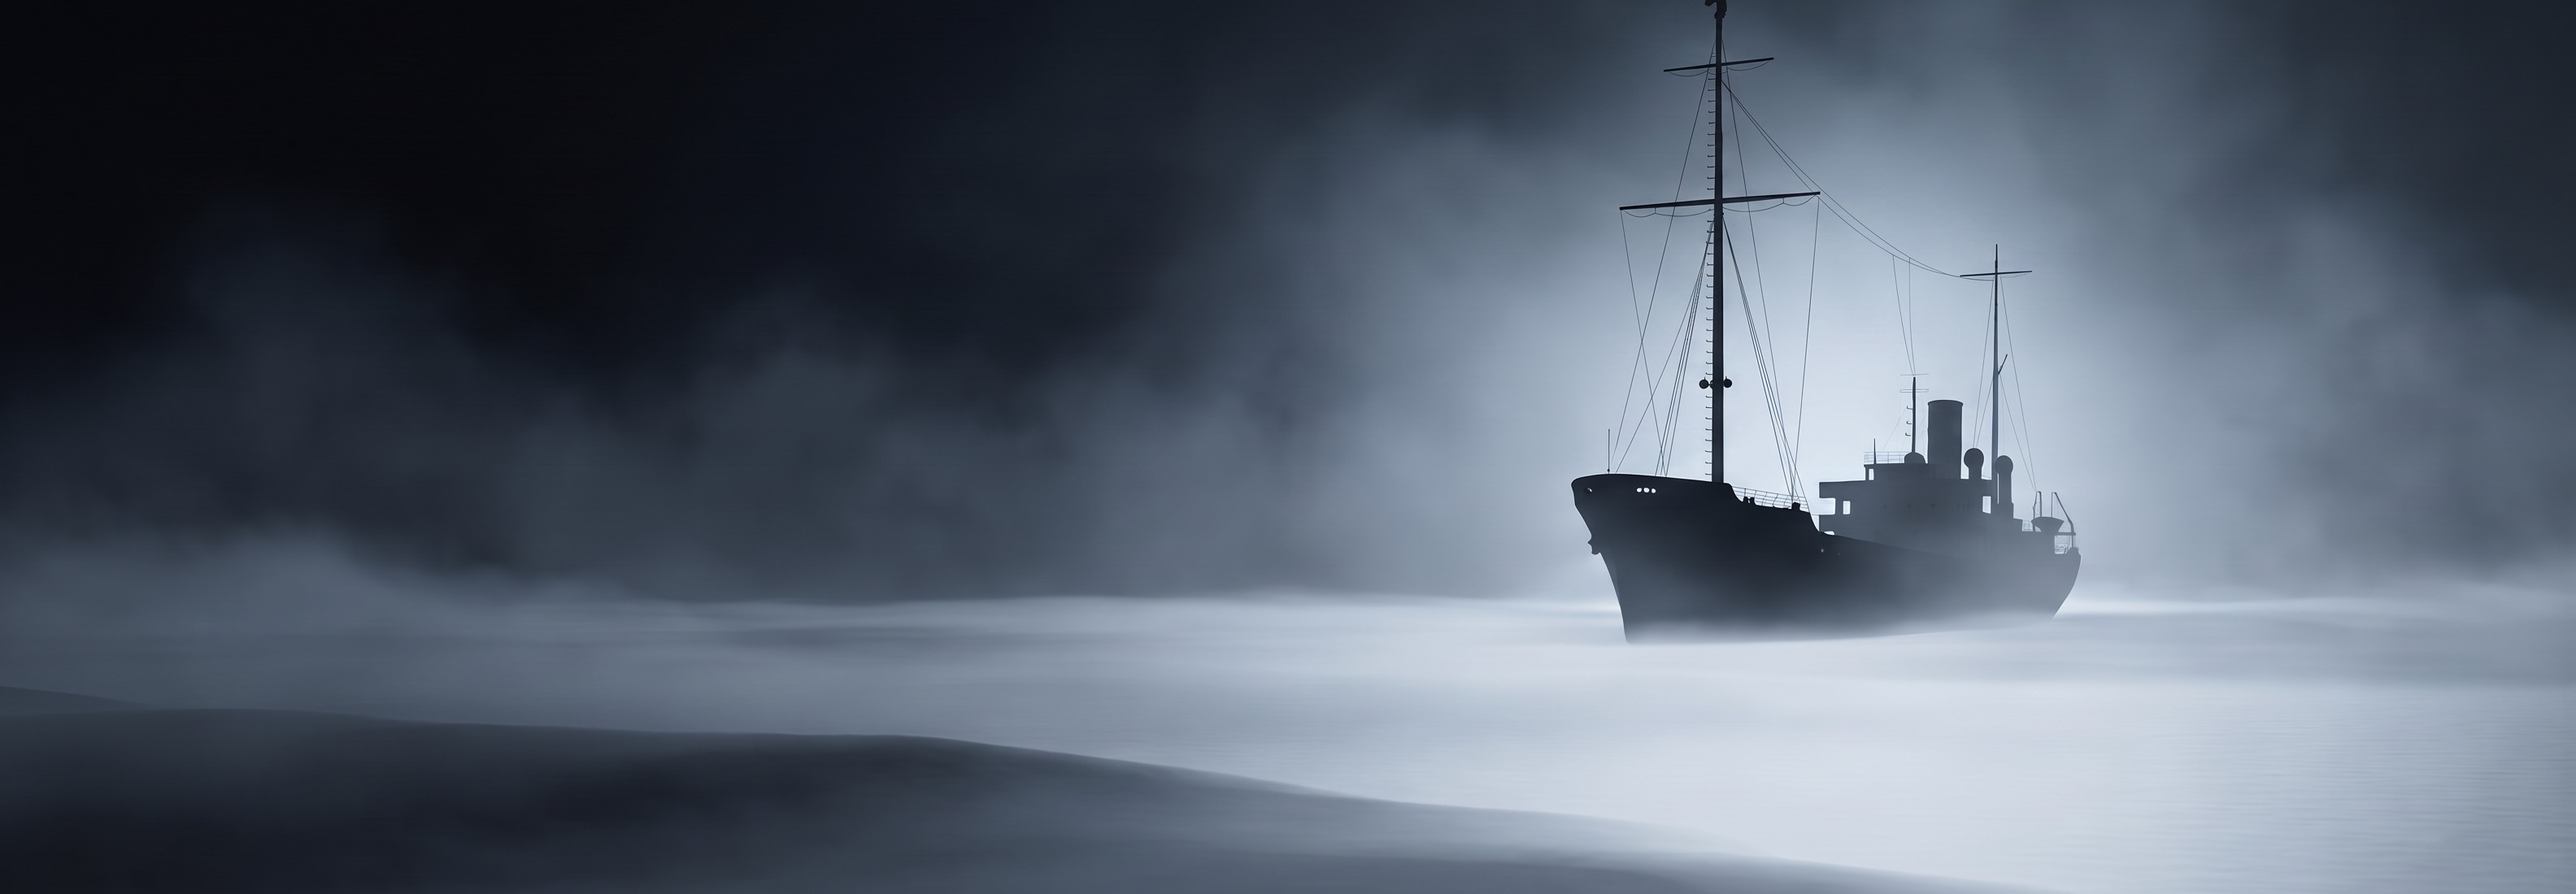
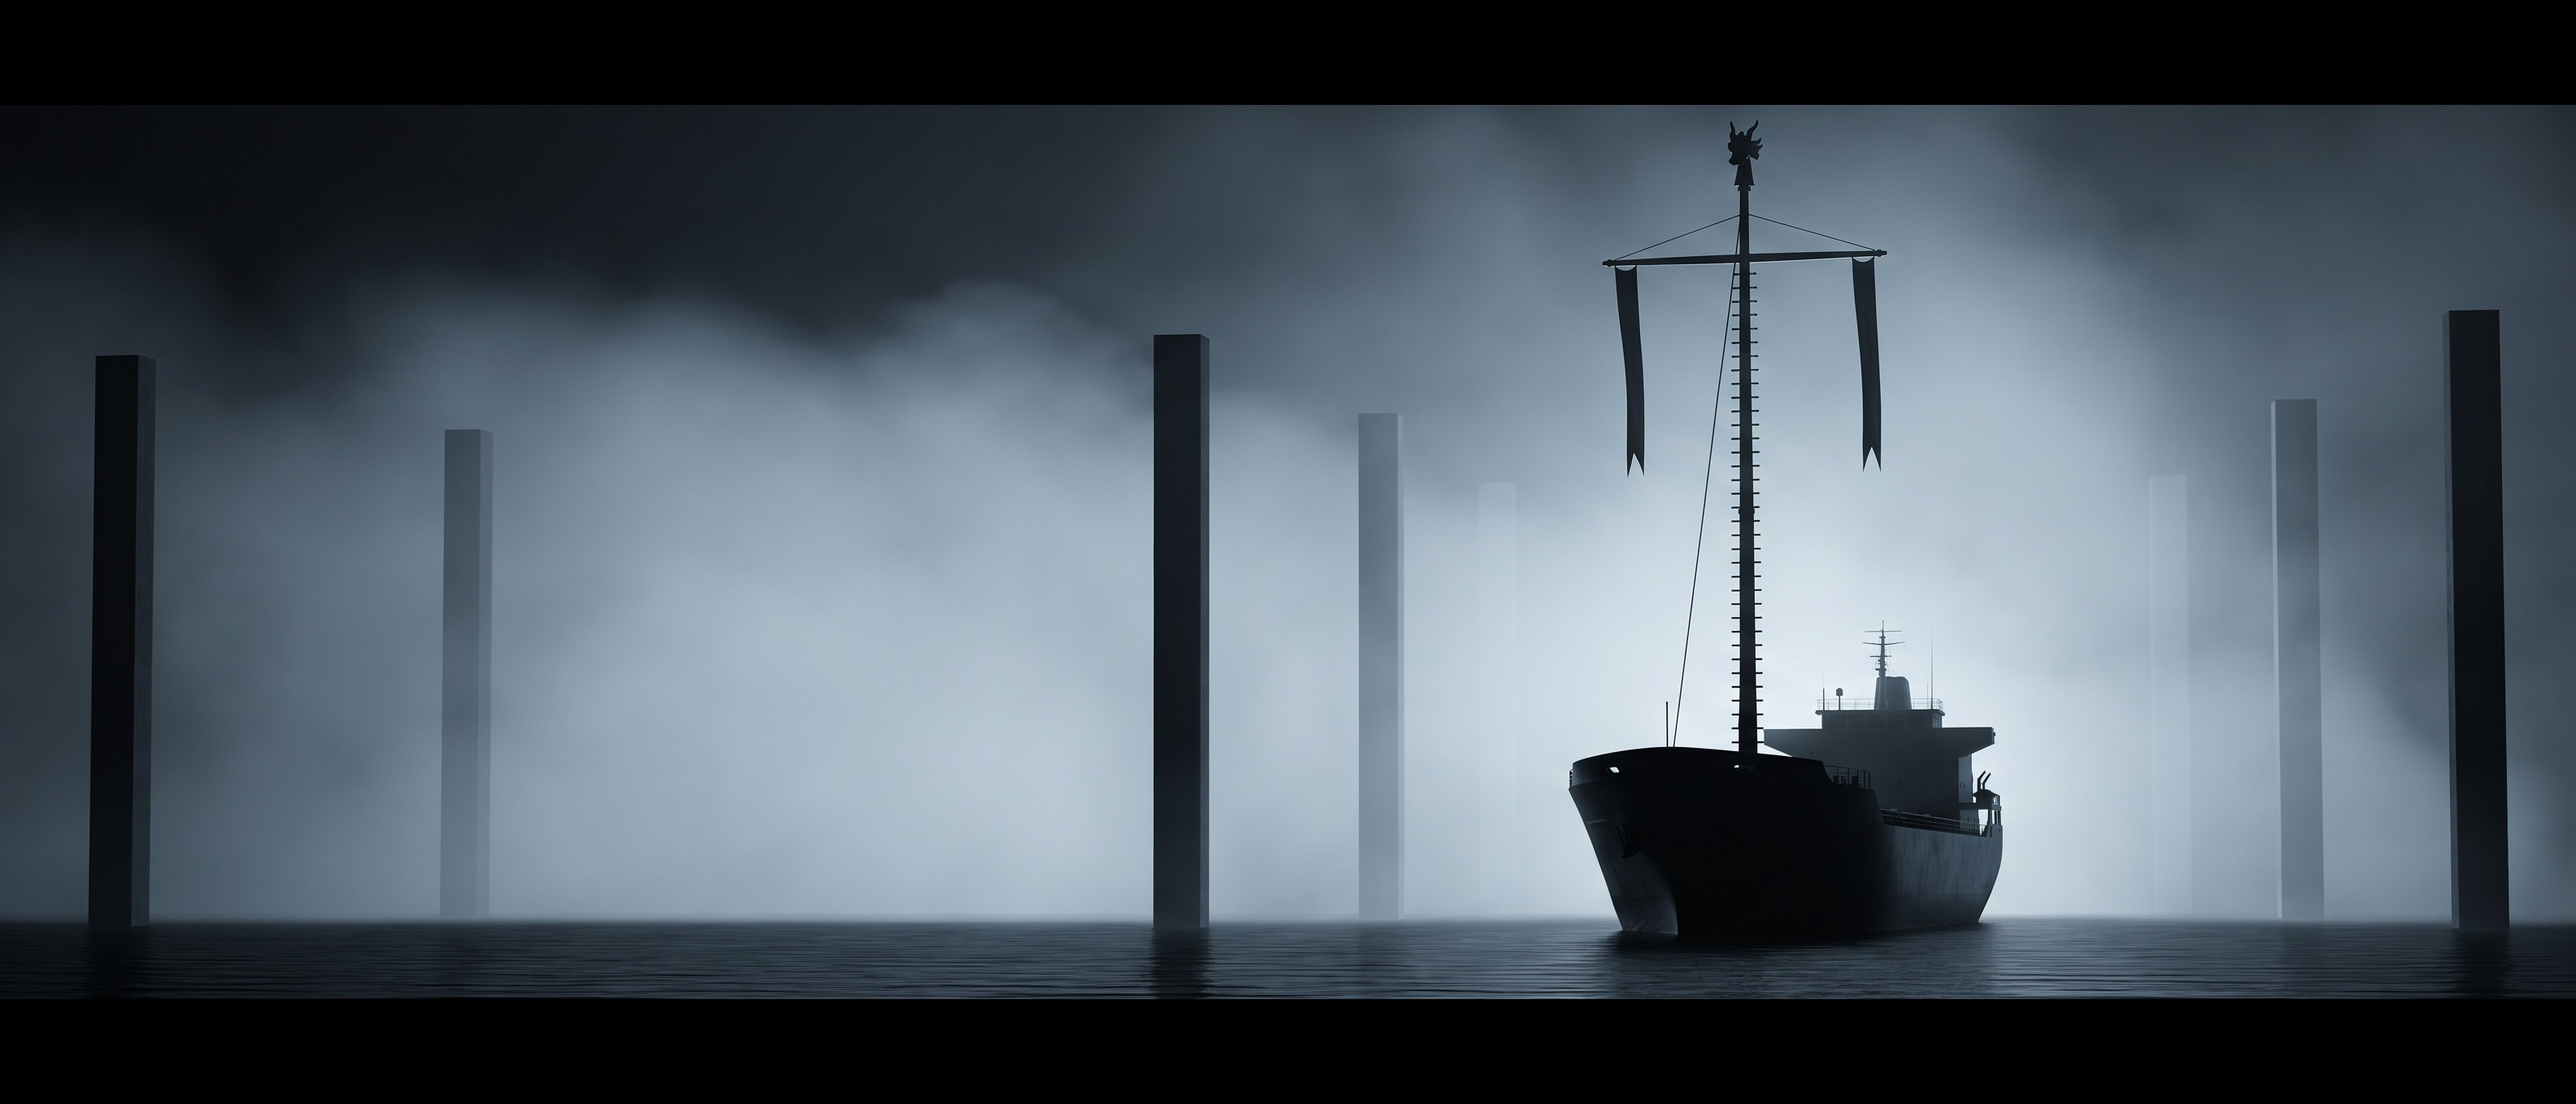
S02 v2v — 21:9 블랙바 레터박스 구조로 레이아웃 재설정
생성 상한이 21:9라 2.88:1 화면을 그 안에 레터박스로 넣어야 한다는 걸 확인하고
프레임 구조부터 다시 잡았다. 위아래 각 9.5%가 블랙바, 가운데 81%가 화면 띠다.
21:9 로 생성한 뒤 가운데를 2.88:1 로 잘라 다시 21:9 캔버스에 검정 패딩하는
방식이라 왜곡 없이 정확히 떨어진다.

v2v 결과물을 보고 두 가지를 뒤집었다.
- 안개 속 검은 사각 기둥들은 제외 대상이 아니라 유지 대상이다. 프롬프트에서
  제외 목록에서 빼고, 위치 고정과 배의 가림 관계를 명시했다.
- 블랙바 자체를 영상 내내 유지하라는 지시를 넣었다.

레퍼런스 이미지 3안을 21:9 블랙바 포함으로 다시 만들었다. 채택안은 배 중심 72%,
폭 18%, 기둥 여섯, 하단 물 띠로 첨부받은 기준 이미지와 맞는다.

diff --git a/source/S02_v2v_프롬프트_v1.md b/source/S02_v2v_프롬프트_v1.md
@@ -1,90 +1,102 @@
-# S02 배 — v2v 프롬프트 v1
+# S02 배 — v2v 프롬프트 v2
 
 2026-09-13 · 소스 `S02_3D_REN_V001.mp4` (1584×550 = 2.88:1, 10.03초, 30fps)
 
+v1에서 바뀐 것: **출력은 21:9 고정**이고 그 안에 2.88:1 화면이 **블랙바로 레터박스**된다.
+안개 속 **검은 사각 기둥**들은 제외 대상이 아니라 유지 대상이다.
+
 ---
 
-## 1. 첫 프레임 실측 — 레퍼런스 이미지 기준선
+## 1. 프레임 구조
+
+생성 상한이 21:9라서 2.88:1 화면을 그 안에 넣는다.
+
+| | 값 |
+|---|---|
+| 출력 프레임 | **21:9** (3168×1358) |
+| 화면 띠 | 2.88:1, 세로 **9.5% ~ 90.5%** |
+| 블랙바 | 위 **9.5%**, 아래 **9.5%** |
+
+작업 순서: 21:9로 생성 → 가운데를 2.88:1로 잘라냄 → 다시 21:9 캔버스에 검정으로 패딩.
+이렇게 하면 왜곡 없이 블랙바가 정확히 9.5%로 들어간다.
+
+## 2. 화면 띠 안의 레이아웃 (영상 첫 프레임 실측 기준)
 
 | 항목 | 값 |
 |---|---|
-| 수평선(검정 보이드 / 밝은 면 경계) | 세로 **59.1%** |
-| 배 가로 범위 | 65.8 ~ 78.0% |
-| 배 중심 | **71.9%** |
-| 배 실루엣 폭(리깅 포함) | **19.9%** |
-| 마스트 끝 | 세로 **13.6%** |
+| 배 중심 | 가로 **72%** |
+| 배 폭(선체) | **약 18%** — 작고 멀다 |
+| 배 흘수선 | 화면 띠의 약 **2/3 지점** |
+| 마스트 끝 | 화면 띠 상단 가까이 |
+| 검은 사각 기둥 | 여섯 개, 여러 깊이에 흩어짐 |
+| 물 | 화면 띠 하단에 가로로 이어지는 어두운 잔물결 띠 |
 
-## 2. 소스 영상의 움직임
+## 3. 소스 영상의 움직임
 
 | 시간 | 배 중심 | 폭 | 상태 |
 |---|---|---|---|
 | 0.0s | 71.9% | 12% | 멀리, 실루엣 전체가 프레임 안 |
-| 2.5s | 62.0% | 20% | 접근 시작, 마스트가 상단 밖으로 |
-| 5.0s | 61.0% | 22% | 계속 접근 |
-| 7.5s | 59.8% | 25% | |
-| 8.6s | 58.9% | 33% | 급격히 커짐 |
+| 2.5~8.6s | 62→59% | 20→33% | 서서히 접근 |
 | 9.2s | 36.3% | 67% | 좌측으로 스쳐 지나감 |
-| 9.6s~ | — | — | 프레임에서 사라짐 |
+| 9.6s~ | — | — | 사라짐 |
 
-즉 **멀리서 드러남 → 다가옴 → 좌측으로 스쳐 사라짐**. 기획의
-"실루엣이 나왔다가 다시 안개에 파묻힌다"와 그대로 맞물린다.
+## 4. 레퍼런스 이미지
 
-## 3. 레퍼런스 이미지
+`images/S02_v2v_레퍼런스_va.jpg` (3168×1358, 21:9, 블랙바 포함)
+- A안(va) 채택: 배 중심 72%, 폭 18%, 기둥 여섯, 물 띠 뚜렷
+- B안(vb): 배가 더 작고 안개가 짙음
+- C안(vc): 배가 반쯤 잠기고 수면 반사가 강함
 
-`images/S02_v2v_레퍼런스_va.jpg` (3168×1100, 2.88:1 — 소스와 동일 비율)
-- A안(va) 채택: 배 중심 72%, 수평선 59%, 마스트 끝 약 20%
-- B안(vb): 실루엣이 더 또렷하고 용두가 선명, 배가 약간 크고 왼쪽
-- C안(vc): 가장 안개에 묻힘, 마스트가 낮음
-
-## 4. 과제 분류
+## 5. 과제 분류
 
 소스는 **정밀 블록아웃**이다 — 배의 구조·동선·카메라는 완성됐고 재질만 회색이다.
 따라서 영상 편집이 아니라 **블록아웃 레퍼런스를 쓴 영상 생성**으로 간다.
-가로세로비와 길이는 페이지 파라미터로 설정한다(2.88:1 / 10초).
 
-제외해야 할 프로덕션 마커
-- 세로 회색 기둥들(실제 건물 기둥 자리 표시)
-- 바닥의 평평한 밝은 회색 면
-- 선수의 `GLORY` 레터링
+제외할 것: 회색 블록아웃 재질, 평평한 밝은 바닥 면, 선수의 `GLORY` 레터링
+유지할 것: 배의 구조와 동선, 카메라, **세로 기둥들**(이제 연출 요소다)
 
-## 5. 프롬프트 (아래 본문을 그대로 제출)
+## 6. 프롬프트 (아래 본문을 그대로 제출)
 
 ```
 Use @Image1 as the first frame.
-This first frame defines the opening composition: a modern steel cargo ship far off and small, reading only as a flat near-black silhouette through heavy fog, its centre about three quarters of the way across the picture, seen in three-quarter view from ahead with the bow pointing left, the waterline a little below the middle of the frame, a cold backlight glow burning through the fog behind it, layered fog banks below and an empty fog-only left side.
+This first frame defines the opening composition and the frame structure: a wide black bar across the very top and another across the very bottom, and between them a letterboxed picture band holding the scene. Inside that band, a modern steel cargo ship stands far off as a small flat near-black silhouette, its centre about three quarters of the way across, seen in three-quarter view from ahead with the raked bow pointing left, its waterline about two thirds of the way down the band, a tall slender ringed mast with a horizontal yard and a small dragon-head finial rising close to the top of the band, six tall dark rectangular columns standing in the fog at different depths across the whole width, a pale luminous fog bank filling the middle with a cold backlight burning through it from behind the ship, and a strip of dark rippled water along the bottom of the band.
 
-@Video1 is a fine-blockout reference. Preserve its ship structure, its motion path, its scale change over time, its camera position and framing, and the spatial relationship between the ship and the horizon. Do not adopt its flat grey materials, its black void, its uniform pale ground plane, the vertical grey placeholder columns standing in the frame, or the lettering on the bow.
+@Video1 is a fine-blockout reference. Preserve its ship structure, its motion path, its scale change over time, its camera position and framing, and the spatial relationship between the ship and the horizon. Do not adopt its flat grey materials, its black void, its uniform pale ground plane, or the lettering on the bow.
 
-Rerender the grey blockout ship in @Video1 as the fog-shrouded near-black silhouette defined by @Image1, and rerender the empty blockout space as the same deep, cold, fog-filled sea defined by @Image1: layered banks of fog, a soft backlight glow behind the vessel, a pale field of low mist and still water below the waterline, near-monochrome blue-grey and black.
+Rerender the grey blockout ship in @Video1 as the fog-shrouded near-black silhouette defined by @Image1, and rerender the empty blockout space as the same cold fog-filled water defined by @Image1: a pale luminous fog bank, a cold backlight glow behind the vessel, dark rippled water along the bottom, near-monochrome blue-grey and black.
 
-The ship keeps the forward mast defined by @Image1 — a slender iron pole built of stacked short hollow rings with a fine ladder of joint rims, a horizontal yard near the top and a small cast dragon-head at its tip.
+The black bar across the top and the black bar across the bottom stay exactly as they are in the first frame for the entire video — the same height, pure black, never moving, never shrinking, and no part of the scene ever crosses into them.
 
-Stage 1 — At the start: the ship sits far off and small in the fog, exactly as in the first frame, barely separated from the bank behind it.
-Main event: it grows slowly larger as it comes on, its outline hardening from a smudge into a readable silhouette while fog keeps streaming across it.
-At the end: the hull and superstructure read clearly, the masthead has passed above the top of the frame.
+The six dark rectangular columns stay exactly where they are for the entire video. They are fixed in the world, never drifting, never multiplying, never disappearing. The ship passes behind and between them, and each column occludes the ship when the ship moves behind it.
 
-Stage 2 — Continuing: the vessel keeps closing, filling more of the frame, the backlight glow spreading behind it and the near fog bank rolling across its lower hull.
-Main event: it swings past the camera toward the left, its dark mass sweeping across the frame.
+The ship keeps the forward mast defined by @Image1 — a slender pole built of stacked short hollow rings with a fine ladder of joint rims, a horizontal yard near the top carrying two narrow cloth banners, and a small cast dragon-head at its tip.
+
+Stage 1 — At the start: the ship sits far off and small, exactly as in the first frame, barely separated from the fog behind it.
+Main event: it grows slowly larger as it comes on, its outline hardening from a smudge into a readable silhouette while fog keeps streaming across it and it passes behind the nearer columns.
+At the end: the hull and superstructure read clearly and the masthead has risen close to the top of the picture band.
+
+Stage 2 — Continuing: the vessel keeps closing, filling more of the band, the backlight glow spreading behind it and fog rolling across its lower hull.
+Main event: it swings past the camera toward the left, its dark mass sweeping across the band and passing behind the left-hand columns.
 At the end: only the after part of the hull is still in frame at the left.
 
 Stage 3 — Main event: the fog closes in behind it and takes the last of the silhouette; the vessel is gone.
-At the end: the frame holds nothing but layered fog and the cold glow, quiet and empty, in the same tones as the first frame.
+At the end: the band holds only the fog, the cold glow, the six columns still standing and the dark water, quiet and empty, in the same tones as the first frame.
 
-Maintain consistency: one single ship throughout, never duplicated or split; the same hull, superstructure and mast; the same horizon height; the same camera position and framing as @Video1; the same near-monochrome blue-grey and black grade with deep true blacks and no milky lift from first frame to last.
+Maintain consistency: one single ship throughout, never duplicated or split; the same hull, superstructure and mast; the same six columns in the same positions; the same water line; the same camera position and framing as @Video1; the same near-monochrome blue-grey and black grade with deep true blacks and no milky lift from first frame to last.
 
-There is no land, no building, no other vessel and no person anywhere. No text, no lettering, no numerals, no ship name, no markings, no subtitles, no vertical columns, no bars and no panel divisions appear on screen.
+There is no land, no building, no other vessel and no person anywhere. No text, no lettering, no numerals, no ship name, no markings and no subtitles appear on screen.
 
 The sound is only a low distant fog horn and the slow wash of water, with no music, no narration and no dialogue.
 ```
 
-## 6. 페이지 파라미터
+## 7. 페이지 파라미터
 
 | 항목 | 값 |
 |---|---|
-| 가로세로비 | 2.88:1 (첫 프레임 이미지가 잠금) |
+| 가로세로비 | 21:9 (첫 프레임 이미지가 잠금) |
 | 길이 | 10초 |
 | 소리 | 켬 (무적·물소리) |
 
-첫 프레임 이미지가 출력 비율을 잠그므로, 레퍼런스 이미지를 소스와 같은
-**2.88:1**로 맞춰 두었다. 페이지에서 2.88:1을 고를 수 없으면 첫 프레임 지정을
-빼고 21:9로 생성한 뒤 상하 트림하거나, 레퍼런스를 21:9로 다시 잘라 쓴다.
+블랙바는 첫 프레임 이미지에 이미 구워져 있으므로 별도 설정이 필요 없다.
+다만 생성 모델이 바를 흐리거나 침범할 수 있어, 최종본은 후반에서
+위아래 9.5%를 순수 검정으로 한 번 덮어 주는 편이 안전하다.
